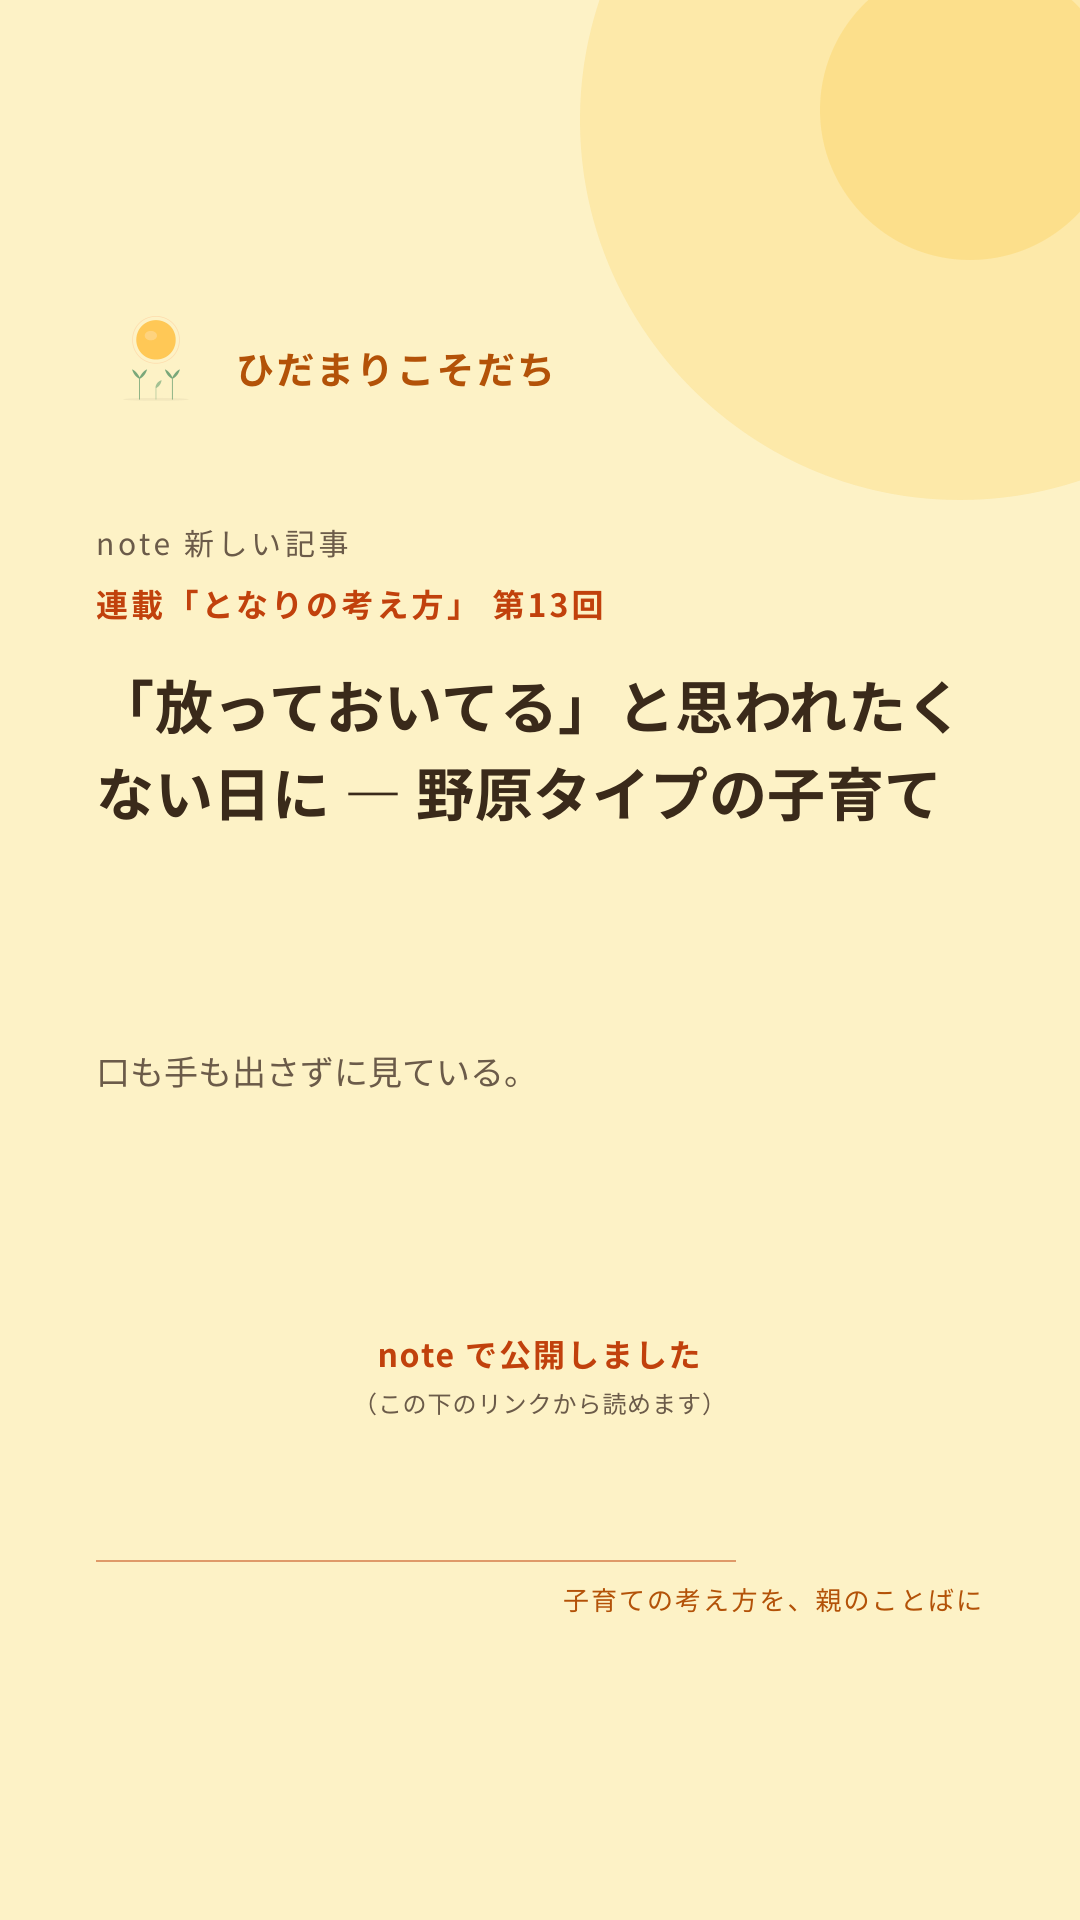
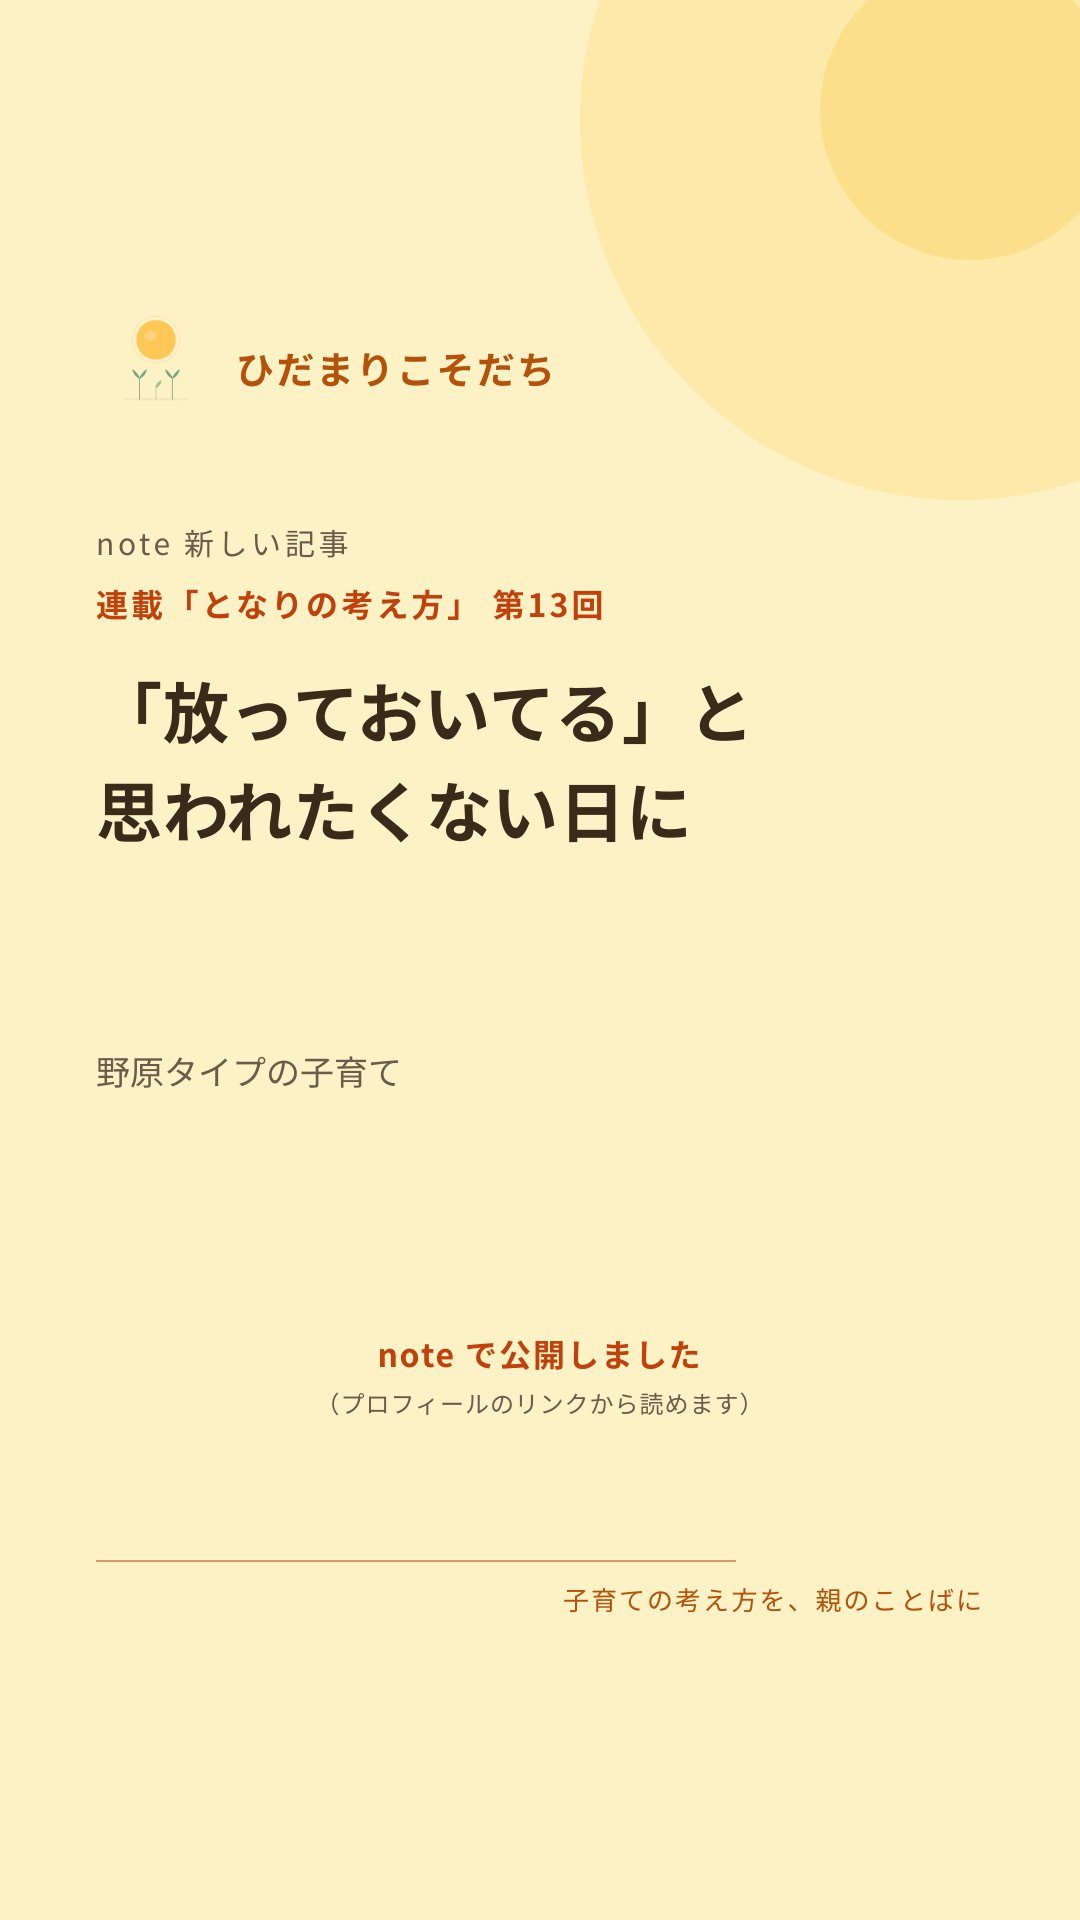
feat(ig): ストーリーのAPI投稿を確認・仕組み化（リンクスタンプは不可のため案内文を変更）
- scripts/post_instagram_story.py 新設（Instagram ログイン方式で STORIES が通ることを実地確認）
- promote_note_article.py --post でストーリーまで自動投稿
- instagram_story.py: 文言を「プロフィールのリンクから」に、タイトルは「｜」で改行位置を指定

diff --git a/scripts/post_instagram_story.py b/scripts/post_instagram_story.py
@@ -1,0 +1,87 @@
+#!/usr/bin/env python3
+"""Instagram のストーリーを投稿する（Instagram ログイン方式・`graph.instagram.com`）。
+
+2026-10-04 に実地検証して通ることを確認した。Facebook ページは不要
+（6月に「不可」と判断したのは旧方式＝Facebook ログインの話で、いまは別経路）。
+
+できないこと（仕様・回避不能）:
+  **リンクスタンプは API では貼れない。** タップで記事へ飛ばす導線は作れないので、
+  画像側に「プロフィールのリンクから」と書いておき、プロフィールのリンクで受ける。
+
+    .venv/bin/python scripts/post_instagram_story.py --image https://…/x.png          # dry-run
+    .venv/bin/python scripts/post_instagram_story.py --image https://…/x.png --commit
+"""
+from __future__ import annotations
+
+import json
+import os
+import time
+import urllib.parse
+import urllib.request
+from pathlib import Path
+
+import click
+
+ROOT = Path(__file__).resolve().parent.parent
+HOST = os.environ.get("META_GRAPH_HOST", "https://graph.instagram.com")
+VER = "v21.0"
+LOG = ROOT / ".auth" / "instagram_post_log.jsonl"
+
+
+def _env() -> tuple[str, str]:
+    for line in (ROOT / ".env").read_text(encoding="utf-8").splitlines():
+        if "=" in line and line.startswith("META_INSTAGRAM_"):
+            k, v = line.split("=", 1)
+            os.environ[k.strip()] = v.split("#", 1)[0].strip().strip('"').strip("'")
+    tok = os.environ.get("META_INSTAGRAM_TOKEN", "").strip()
+    uid = os.environ.get("META_INSTAGRAM_USER_ID", "").strip()
+    if not tok or not uid:
+        raise click.ClickException("META_INSTAGRAM_TOKEN / META_INSTAGRAM_USER_ID が未設定です")
+    return tok, uid
+
+
+def _call(path: str, data: dict) -> dict:
+    tok, _ = _env()
+    body = urllib.parse.urlencode({**data, "access_token": tok}).encode()
+    try:
+        with urllib.request.urlopen(urllib.request.Request(f"{HOST}/{VER}/{path}", data=body), timeout=60) as r:
+            return json.loads(r.read().decode())
+    except urllib.error.HTTPError as e:
+        return json.loads(e.read().decode())
+
+
+def publish_story(image_url: str) -> dict:
+    _, uid = _env()
+    res = _call(f"{uid}/media", {"media_type": "STORIES", "image_url": image_url})
+    if "id" not in res:
+        raise click.ClickException(f"コンテナ作成に失敗: {res.get('error', res)}")
+    time.sleep(5)
+    pub = _call(f"{uid}/media_publish", {"creation_id": res["id"]})
+    if "id" not in pub:
+        raise click.ClickException(f"公開に失敗: {pub.get('error', pub)}")
+    q = urllib.parse.urlencode({"fields": "permalink,timestamp", "access_token": _env()[0]})
+    with urllib.request.urlopen(f"{HOST}/{VER}/{pub['id']}?{q}", timeout=30) as r:
+        info = json.loads(r.read().decode())
+    LOG.parent.mkdir(parents=True, exist_ok=True)
+    with LOG.open("a", encoding="utf-8") as f:
+        f.write(json.dumps({"ts": time.strftime("%Y-%m-%dT%H:%M:%S%z"), "action": "story",
+                            "media_id": pub["id"], "image": image_url,
+                            "permalink": info.get("permalink")}, ensure_ascii=False) + "\n")
+    return {**pub, **info}
+
+
+@click.command(help="Instagram ストーリーを投稿する（--commit 無しは dry-run）。")
+@click.option("--image", "image_url", required=True, help="画像の公開URL（1080x1920 推奨）")
+@click.option("--commit", is_flag=True, help="付けると実投稿")
+def main(image_url: str, commit: bool) -> None:
+    click.echo(f"画像: {image_url}")
+    click.echo("※ リンクスタンプは API では貼れません（画像内の案内＋プロフィールのリンクで受けます）")
+    if not commit:
+        click.echo("[dry-run] 投稿していません。--commit で実行します。")
+        return
+    info = publish_story(image_url)
+    click.echo(f"[OK] ストーリーを投稿しました（24時間で消えます）\n  {info.get('permalink')}")
+
+
+if __name__ == "__main__":
+    main()

diff --git a/scripts/instagram_story.py b/scripts/instagram_story.py
@@ -34,15 +34,19 @@ def title_font_px(title: str) -> int:
     return 50
 
 
-def build_html(title: str, series: str, hook: str, cta: str) -> str:
+def build_html(title: str, series: str, hook: str, cta: str, cta_sub: str) -> str:
     logo = load_logo_inline()
     tfs = title_font_px(title)
+    title_html = esc(title).replace("｜", "<br>")
     series_html = f'<div class="series">{esc(series)}</div>' if series.strip() else ""
     hook_html = f'<div class="hook">{esc(hook)}</div>' if hook.strip() else ""
     return f"""<!DOCTYPE html>
 <html lang="ja"><head><meta charset="utf-8"><style>
 @page {{ size: {W}px {H}px; margin: 0; }}
 * {{ margin: 0; padding: 0; box-sizing: border-box; }}
+/* 日本語を文節の途中で折り返さない（オーナー指示 2026-09-27）。
+   改行位置は原稿側で決める: --title に「｜」を入れるとそこで改行する。 */
+* {{ word-break: keep-all; overflow-wrap: normal; line-break: strict; }}
 html, body {{ width: {W}px; height: {H}px; }}
 body {{ font-family: 'Noto Sans CJK JP', sans-serif; background: {C_BG}; position: relative; overflow: hidden; }}
 .sun  {{ position: absolute; top: -260px; right: -260px; width: 760px; height: 760px; border-radius: 50%; background: {C_SUN}; opacity: 0.18; }}
@@ -65,10 +69,10 @@ body {{ font-family: 'Noto Sans CJK JP', sans-serif; background: {C_BG}; positio
   <div class="wordmark">ひだまりこそだち</div>
   <div class="label">note 新しい記事</div>
   {series_html}
-  <div class="title">{esc(title)}</div>
+  <div class="title">{title_html}</div>
   {hook_html}
   <div class="cta">{esc(cta)}</div>
-  <div class="cta-sub">（この下のリンクから読めます）</div>
+  <div class="cta-sub">{esc(cta_sub)}</div>
   <div class="rule"></div>
   <div class="tag">子育ての考え方を、親のことばに</div>
 </body></html>"""
@@ -120,6 +124,11 @@ def main():
     ap.add_argument("--title"); ap.add_argument("--series", default="")
     ap.add_argument("--hook", default=""); ap.add_argument("--out")
     ap.add_argument("--cta", default="note で公開しました")
+    # API からストーリーを出すとリンクスタンプが貼れないため、受け皿はプロフィールのリンク。
+    # スマホから手で投稿してリンクスタンプを貼る回だけ --link-sticker を付ける。
+    ap.add_argument("--cta-sub", default="（プロフィールのリンクから読めます）")
+    ap.add_argument("--link-sticker", action="store_true",
+                    help="リンクスタンプを手で貼る回（文言を『この下のリンクから』にする）")
     a = ap.parse_args()
     if a.article:
         d = from_article(a.article)
@@ -128,7 +137,8 @@ def main():
         if not (a.title and a.out):
             ap.error("--article か --title/--out が必要")
         title, series, hook, out = a.title, a.series, a.hook, a.out
-    render(build_html(title, series, hook, a.cta), out)
+    sub = "（この下のリンクから読めます）" if a.link_sticker else a.cta_sub
+    render(build_html(title, series, hook, a.cta, sub), out)
 
 
 if __name__ == "__main__":

diff --git a/scripts/promote_note_article.py b/scripts/promote_note_article.py
@@ -24,6 +24,8 @@ import sys
 from pathlib import Path
 
 import click
+import sys as _sys
+_sys.path.insert(0, str(Path(__file__).resolve().parent))
 
 ROOT = Path(__file__).resolve().parent.parent
 ARTICLES = ROOT / "docs/note/articles"
@@ -66,7 +68,8 @@ def build(path: Path) -> dict | None:
 @click.command(help="公開済みの note 記事から Instagram ストーリー用の素材を作る。")
 @click.argument("article", type=click.Path(exists=True, path_type=Path), required=False)
 @click.option("--all-recent", type=int, default=0, help="直近N本の公開記事をまとめて処理")
-def main(article: Path | None, all_recent: int) -> None:
+@click.option("--post", is_flag=True, help="生成した画像を Instagram ストーリーへ実際に投稿する")
+def main(article: Path | None, all_recent: int, post: bool) -> None:
     targets: list[Path] = []
     if article:
         targets = [article]
@@ -80,6 +83,15 @@ def main(article: Path | None, all_recent: int) -> None:
     made = [x for x in (build(p) for p in targets) if x]
     if not made:
         return
+    if post:
+        # 2026-10-04 検証: Instagram ログイン方式でもストーリーを公開できる（Facebookページ不要）。
+        # ただしリンクスタンプは API では貼れないので、画像の案内＋プロフィールのリンクで受ける。
+        import post_instagram_story as story
+        for x in made:
+            info = story.publish_story(x["image"])
+            click.echo(f"[OK] ストーリー投稿: {x['title']}\n  {info.get('permalink')}")
+        return
+
     click.echo(f"\n=== Instagram ストーリー素材 {len(made)}件 ===")
     for x in made:
         click.echo(f"\n■ {x['title']}")
